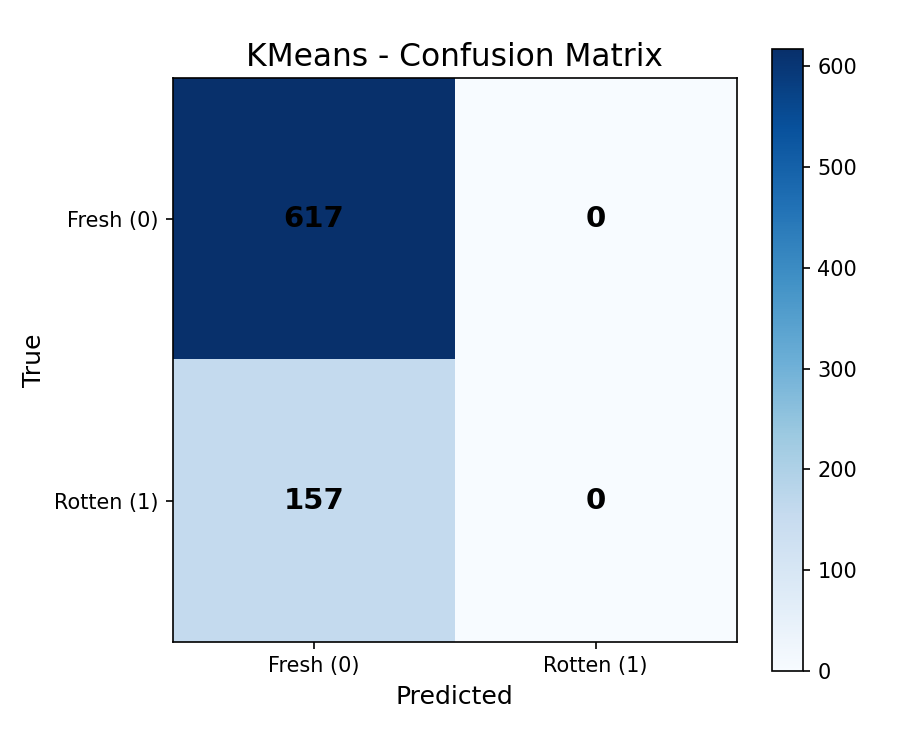
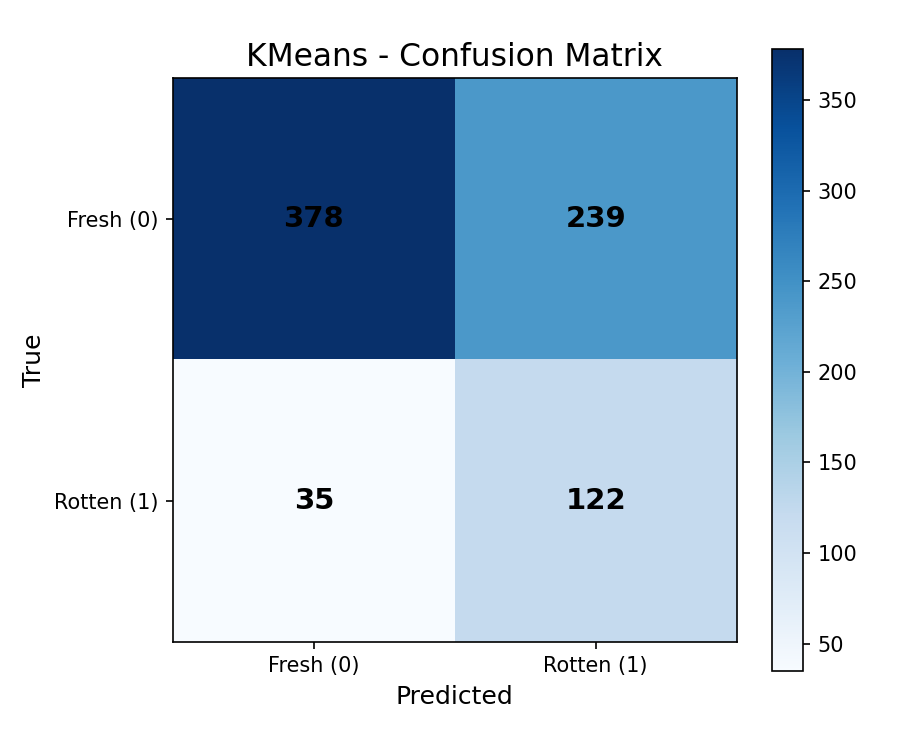
Add files via upload

diff --git a/machine_project/tometo/tomato_project.py b/machine_project/tometo/tomato_project.py
@@ -29,6 +29,7 @@ from sklearn.model_selection import train_test_split
 import joblib
 
 # ---------------- CONFIG ----------------
+
 # change these paths as needed
 DATA_DIR = r"D:\machin_project\tometo\tometo"
 OUTPUT_DIR = r"D:\machin_project\tometo\tometo_outputs"
@@ -237,7 +238,7 @@ def generate_report(X_train, y_train, X_val, y_val, X_test, y_test,
         "- Figures: confusion_logistic.png, roc_logistic.png, loss_curve_logistic.png\n",
         "## KMeans",
         "- Number of clusters: 2",
-        "- Cluster label assignment: majority vote on validation set",
+        "- Cluster label assignment: mapped to classes by majority vote on the validation set",
         f"- Accuracy: {acc_km_percent:.2f}%",
         "- Figures: confusion_kmeans.png, roc_kmeans.png, inertia_vs_k.png, loss_curve_kmeans.png\n",
         "All models and figures saved in output directory."
@@ -325,7 +326,6 @@ def main():
     filename="confusion_logistic.png"
 )
 
-
     # ROC Curve
     plot_roc_curve(
     y_test,
@@ -334,7 +334,6 @@ def main():
     filename="roc_logistic.png"
 )
 
-
     # Loss Curve for Logistic Regression 
     plot_loss_curve(test_losses_lr, "Loss Curve - Logistic Regression", "loss_curve_logistic.png")
 
@@ -342,17 +341,51 @@ def main():
     km = KMeans(n_clusters=2, random_state=42)
     km.fit(X_train_s)
 
+   
     val_clusters = km.predict(X_val_s)
     mapping = {}
-    for c in [0,1]:
-        idx = np.where(val_clusters==c)[0]
-        if len(idx)==0:
-            mapping[c] = 0
+
+    for c in [0, 1]:
+        idx = np.where(val_clusters == c)[0]
+        if len(idx) == 0:
+           
+            other_c = 1 - c
+            if other_c in mapping:
+                mapping[c] = 1 - mapping[other_c]
+            else:
+                mapping[c] = 0
         else:
             mapping[c] = Counter(y_val[idx]).most_common(1)[0][0]
 
+    print("Cluster mapping:", mapping)
+
+   
     test_clusters = km.predict(X_test_s)
-    km_pred = np.array([mapping[c] for c in test_clusters])
+    km_pred_map = np.array([mapping[c] for c in test_clusters])
+
+    
+    centers = km.cluster_centers_
+    d0 = np.linalg.norm(X_test_s - centers[0], axis=1)
+    d1 = np.linalg.norm(X_test_s - centers[1], axis=1)
+
+   
+    rot_cluster = [c for c, v in mapping.items() if v == 1]
+    if len(rot_cluster) == 0:
+        
+        km_scores = d0 - d1
+    else:
+        rot_cluster = rot_cluster[0]
+        if rot_cluster == 0:
+            km_scores = d0 - d1
+        else:
+            km_scores = d1 - d0
+
+    
+    fpr, tpr, thresholds = roc_curve(y_test, km_scores)
+    best_idx = np.argmax(tpr - fpr)
+    best_thr = thresholds[best_idx]
+
+    km_pred = (km_scores >= best_thr).astype(int)
 
     acc_km = accuracy_score(y_test, km_pred)
     acc_km_percent = acc_km * 100
@@ -361,26 +394,18 @@ def main():
     # KMeans Confusion
     cm_k = confusion_matrix(y_test, km_pred)
     plot_confusion_matrix(
-    cm_k,
-    labels=["Fresh (0)", "Rotten (1)"],
-    title="KMeans - Confusion Matrix",
-    filename="confusion_kmeans.png"
-)
-
-
+        cm_k,
+        labels=["Fresh (0)", "Rotten (1)"],
+        title="KMeans - Confusion Matrix",
+        filename="confusion_kmeans.png"
+    )
     # KMeans ROC
-    centers = km.cluster_centers_
-    d0 = np.linalg.norm(X_test_s - centers[0], axis=1)
-    d1 = np.linalg.norm(X_test_s - centers[1], axis=1)
-    km_scores = -(d1)
-
-    fpr, tpr, _ = roc_curve(y_test, km_scores)
     plot_roc_curve(
-    y_test,
-    km_scores,
-    title="ROC Curve - KMeans",
-    filename="roc_kmeans.png"
-)
+        y_test,
+        km_scores,
+        title="ROC Curve - KMeans",
+        filename="roc_kmeans.png"
+    )
 
     
     # Loss curve for KMeans (using different k values) - TEST DATA ONLY

diff --git a/machine_project/tometo/tometo_outputs/project_report.md b/machine_project/tometo/tometo_outputs/project_report.md
@@ -26,8 +26,8 @@
 
 ## KMeans
 - Number of clusters: 2
-- Cluster label assignment: majority vote on validation set
-- Accuracy: 79.72%
+- Cluster label assignment: mapped to classes by majority vote on the validation set
+- Accuracy: 64.60%
 - Figures: confusion_kmeans.png, roc_kmeans.png, inertia_vs_k.png, loss_curve_kmeans.png
 
 All models and figures saved in output directory.
